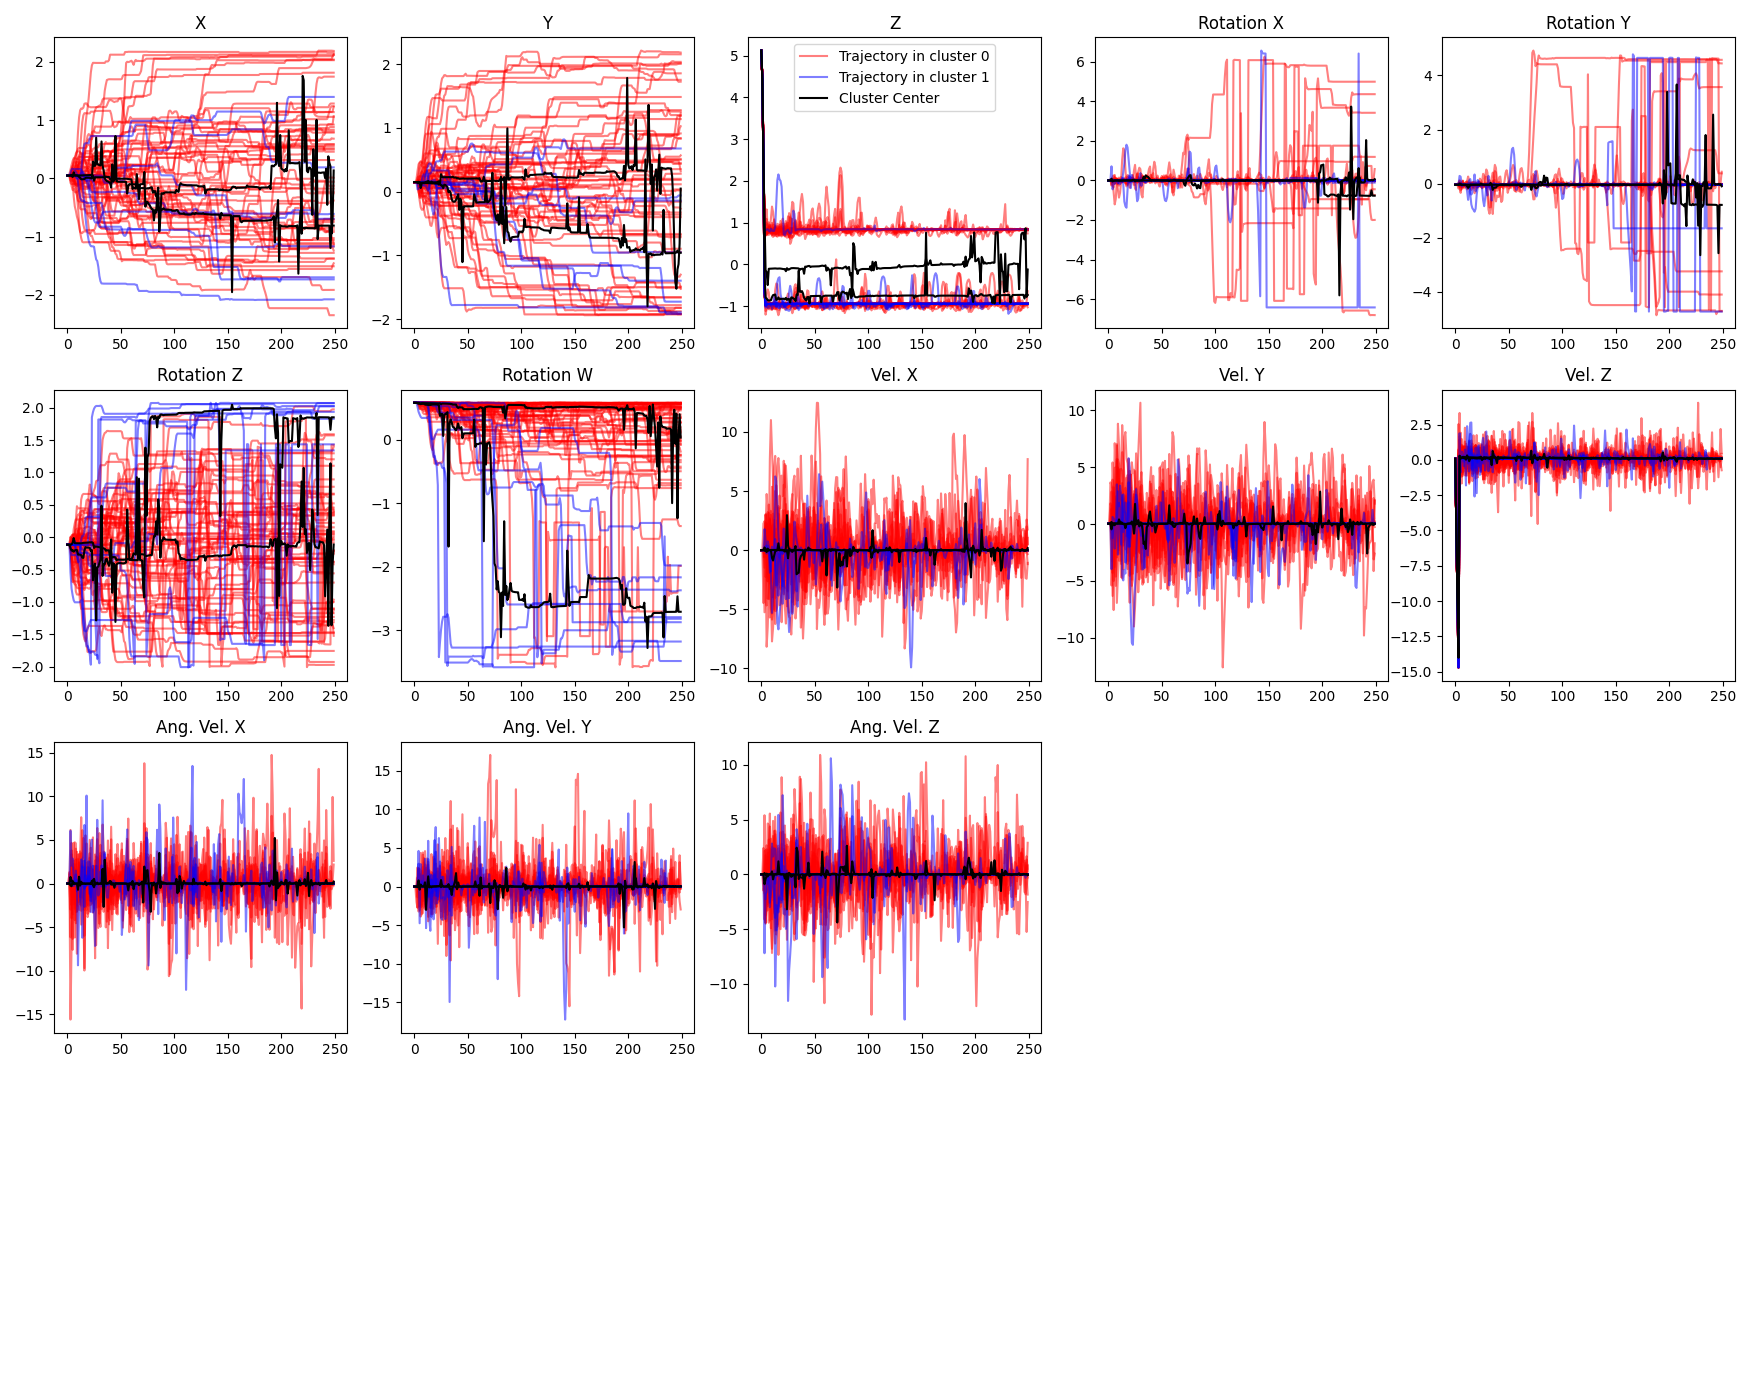
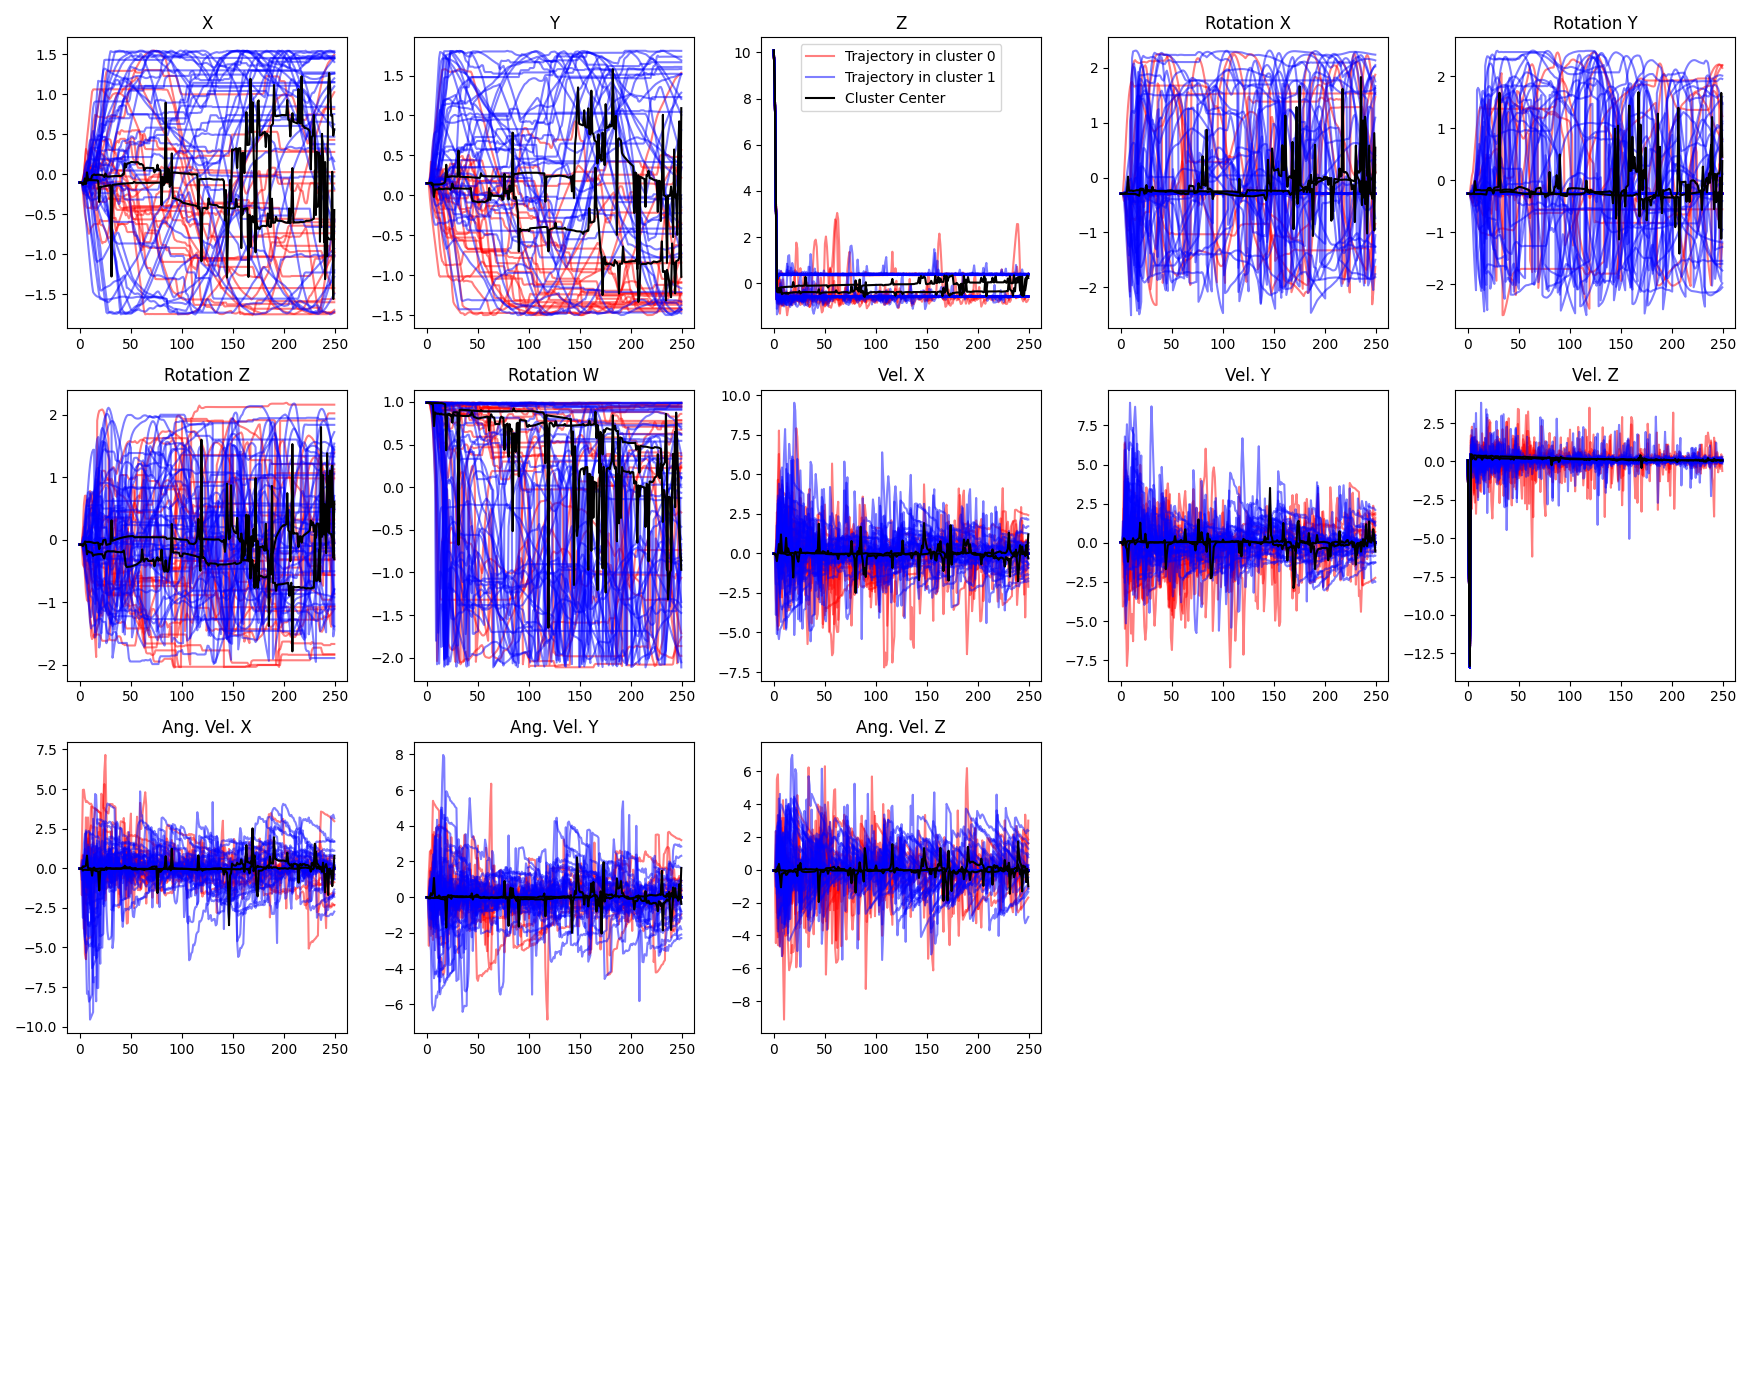
Plots

diff --git a/test.py b/test.py
@@ -20,8 +20,8 @@ if __name__ == '__main__':
     # Get causal world environment. second half are cube, first half are sphere
     def _make_env(rank):
         def _init():
-            task = MyOwnTask(shape="Cube",
-                             size="Big" if rank < number_envs/2 else "Small",
+            task = MyOwnTask(shape="Cube" if rank < number_envs/2 else "Sphere",
+                             size="Big", #  if rank < number_envs/2 else "Small",
                              mass="Heavy")
             env = CausalWorld(task=task,
                               enable_visualization=False,

diff --git a/src/clustering_functions.py b/src/clustering_functions.py
@@ -95,8 +95,8 @@ def cluster(data,
         # create diretories for results
         os.makedirs("./debug/cluster_plots/", exist_ok=True)
         plt.savefig("./debug/cluster_plots/timestep_{}.png".format(timestep))
-        plt.cla()
-    return km
+        plt.clf()
+        return km
 
 def compute_distance_between_trajectory_and_cluster(traj, cluster):
     # computes pairwise distance between all timesteps in traj and cluster
